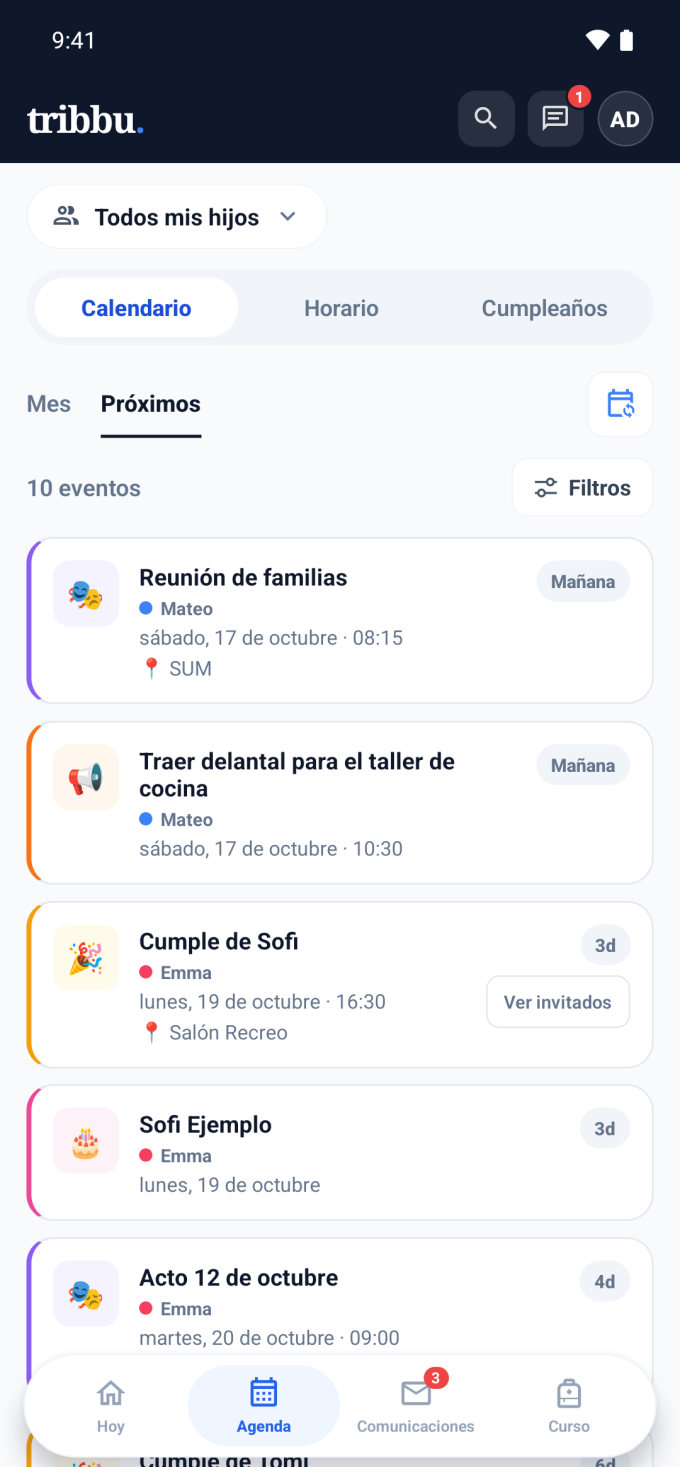
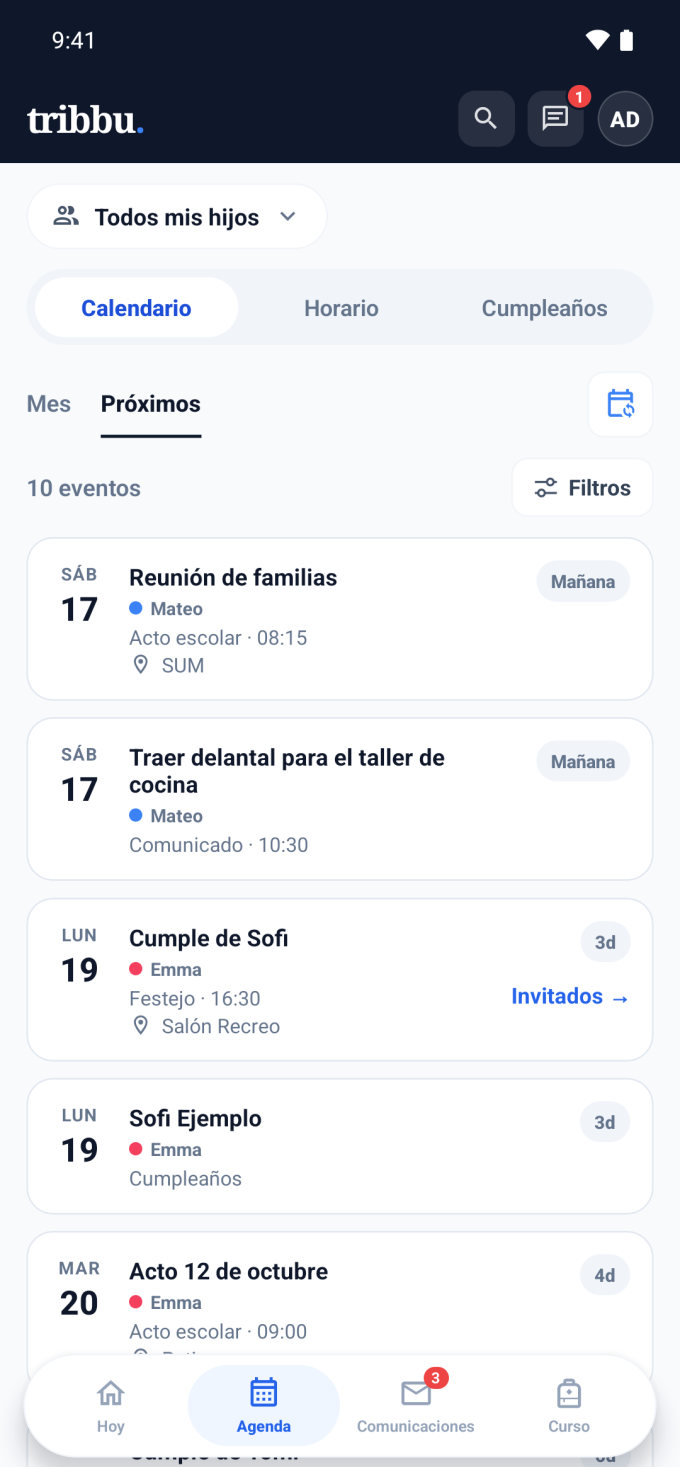
feat(ui): Próximos de Agenda como "Próximos días" y menú que no se sale de la tabla
- Agenda → Próximos (web + app): fecha en columna, sin íconos-emoji ni raya
  de color, tipo y lugar como texto, acciones como enlaces e íconos de línea.
  Mismo criterio en los eventos del día de la vista Mes.
- Menú: los platos sin espacios ("Tomate/Jamon/Huevo/Cebolla") ahora cortan
  después de cada "/" (platoCortable en @shared/menu) en vez de salirse.
- Foto de Agenda de tribbu.ar con el formato nuevo.

diff --git a/src/features/calendario/index.jsx b/src/features/calendario/index.jsx
@@ -1,5 +1,6 @@
 // @ts-nocheck
 import { useState, useEffect, useCallback } from "react";
+import { Icono } from "../../components/Icono";
 import { EmptyState } from "../../components/EmptyState";
 import { supabase } from "../../supabase";
 import { BotonNuevo } from "../../components/BotonNuevo";
@@ -314,7 +315,6 @@ export function Calendario({ cursoId, cursoIds, esVistaTodos=false, tagDeCurso=(
                     const cfg = TIPO_CONFIG[e.tipo]||TIPO_CONFIG.acto;
                     return (
                       <div key={i} style={{display:"flex",gap:10,alignItems:"flex-start",padding:"10px 0",borderBottom:i<evDiaSelec.length-1?"1px solid #F1F5F9":"none"}}>
-                        <div style={{width:36,height:36,borderRadius:10,background:cfg.bg,display:"flex",alignItems:"center",justifyContent:"center",fontSize:18,flexShrink:0}}>{cfg.emoji}</div>
                         <div style={{flex:1,minWidth:0}}>
                           <div style={{display:"flex",alignItems:"center",gap:8,flexWrap:"wrap"}}>
                             <div style={{fontSize:13,fontWeight:700}}>{e.titulo}</div>
@@ -322,20 +322,20 @@ export function Calendario({ cursoId, cursoIds, esVistaTodos=false, tagDeCurso=(
                             {docenteDe(e.creado_por)?<span style={{fontSize:10,fontWeight:700,padding:"2px 7px",borderRadius:8,background:"#F0F9FF",color:"#0369A1"}}>{etiquetaDocente(docenteDe(e.creado_por))}</span>:null}
                           </div>
                           <div style={{fontSize:11,color:"#94A3B8",marginTop:2}}>
-                            {cfg.label}{e.hora?` · ${e.hora}${e.hora_fin?` – ${e.hora_fin}`:""}`:""}{e.lugar?` · 📍${e.lugar}`:""}
+                            {cfg.label}{e.hora?` · ${e.hora}${e.hora_fin?` – ${e.hora_fin}`:""}`:""}{e.lugar?` · ${e.lugar}`:""}
                           </div>
                           {e.descripcion&&<div style={{fontSize:11,color:"#64748B",marginTop:2}}>{e.descripcion}</div>}
                           {e.tipo==="festejo"&&e.imagen_url&&<ImagenAmpliable src={e.imagen_url} bucket="eventos" alt="Invitación" style={{width:64,height:64,objectFit:"cover",borderRadius:8,marginTop:6,display:"block"}}/>}
                           <AdjuntosList adjuntos={e.adjuntos}/>
                         </div>
                         {e.tipo==="festejo"
-                        ? <button onClick={()=>setFestejoDetalle(e)} style={{padding:"4px 10px",borderRadius:6,border:"1px solid #FCD34D",background:"#FFFBEB",cursor:"pointer",fontSize:11,fontWeight:700,color:"#F59E0B"}}>Ver invitados</button>
-                        : (e.confirma_asistencia ? <button onClick={()=>setEventoDetalle(e)} style={{padding:"4px 10px",borderRadius:6,border:"1px solid #E2E8F0",background:"white",cursor:"pointer",fontSize:11,fontWeight:600,color:"#64748B"}}>Ver asistencia</button> : null)
+                        ? <button onClick={()=>setFestejoDetalle(e)} style={{border:"none",background:"none",padding:0,cursor:"pointer",fontFamily:"inherit"}}><span style={{fontSize:12.5,fontWeight:700,color:"#2563EB",whiteSpace:"nowrap"}}>Invitados →</span></button>
+                        : (e.confirma_asistencia ? <button onClick={()=>setEventoDetalle(e)} style={{border:"none",background:"none",padding:0,cursor:"pointer",fontFamily:"inherit"}}><span style={{fontSize:12.5,fontWeight:700,color:"#2563EB",whiteSpace:"nowrap"}}>Asistencia →</span></button> : null)
                       }
                         {userId&&e.creado_por===userId&&e.id&&!e.id?.toString().startsWith("c-")&&!e.id?.toString().startsWith("r-")&&e.tipo!=="festejo"&&(
                           <div style={{display:"flex",gap:4}}>
-                            <button onClick={()=>setModal(e)} style={{padding:"4px 8px",borderRadius:6,border:"1px solid #E2E8F0",background:"white",cursor:"pointer",fontSize:11}}>✏</button>
-                            <button onClick={()=>setConfirm(e)} style={{padding:"4px 8px",borderRadius:6,border:"1px solid #FEE2E2",background:"#FEF2F2",cursor:"pointer",fontSize:11,color:"#EF4444"}}>🗑</button>
+                            <button onClick={()=>setModal(e)} style={{width:30,height:30,borderRadius:8,border:"1px solid #E2E8F0",background:"white",cursor:"pointer",display:"inline-flex",alignItems:"center",justifyContent:"center"}} aria-label="Editar evento"><Icono nombre="lapiz" size={15} color="#64748B"/></button>
+                            <button onClick={()=>setConfirm(e)} style={{width:30,height:30,borderRadius:8,border:"1px solid #E2E8F0",background:"white",cursor:"pointer",display:"inline-flex",alignItems:"center",justifyContent:"center"}} aria-label="Borrar evento"><Icono nombre="papelera" size={15} color="#64748B"/></button>
                           </div>
                         )}
                       </div>
@@ -381,17 +381,18 @@ export function Calendario({ cursoId, cursoIds, esVistaTodos=false, tagDeCurso=(
 
           {listaEventos().length===0&&<EmptyState icono="agenda" titulo="No hay eventos" nota="Probá con otros filtros, o creá uno con + Nuevo."/>}
           {listaEventos().map((e,i)=>{
-            const cfg = TIPO_CONFIG[e.tipo]||TIPO_CONFIG.acto;
             const d   = new Date(e.fecha+"T00:00:00");
             const dFin = e.fecha_fin ? new Date(e.fecha_fin+"T00:00:00") : d;
             const enCurso = hoy>=d && hoy<=dFin;
             const dias = enCurso ? 0 : Math.round((d-hoy)/86400000);
             const diasTxt = enCurso ? "En curso" : dias===0?"Hoy":dias===1?"Mañana":`${dias}d`;
             return (
-              <Card key={e.id||i} style={{padding:"13px 15px",marginBottom:10,borderLeft:`3px solid ${cfg.color}`}}>
+              <Card key={e.id||i} style={{padding:"13px 15px",marginBottom:10}}>
                 <div style={{display:"flex",gap:12,alignItems:"flex-start"}}>
-                  <div style={{width:42,height:42,borderRadius:12,background:cfg.bg,display:"flex",flexDirection:"column",alignItems:"center",justifyContent:"center",flexShrink:0}}>
-                    <div style={{fontSize:18}}>{cfg.emoji}</div>
+                  {/* Fecha en columna, como "Próximos días" del Inicio. */}
+                  <div style={{width:38,flexShrink:0,textAlign:"center"}}>
+                    <span style={{display:"block",fontSize:10.5,fontWeight:700,letterSpacing:0.6,textTransform:"uppercase",color:"#64748B"}}>{d.toLocaleDateString("es-AR",{weekday:"short"}).replace(".","")}</span>
+                    <span style={{display:"block",fontSize:20,fontWeight:800,color:"#0F172A",lineHeight:1.15}}>{d.getDate()}</span>
                   </div>
                   <div style={{flex:1,minWidth:0}}>
                     <div style={{display:"flex",alignItems:"center",gap:8,flexWrap:"wrap"}}>
@@ -400,11 +401,10 @@ export function Calendario({ cursoId, cursoIds, esVistaTodos=false, tagDeCurso=(
                       {docenteDe(e.creado_por)?<span style={{fontSize:10,fontWeight:700,padding:"2px 7px",borderRadius:8,background:"#F0F9FF",color:"#0369A1"}}>{etiquetaDocente(docenteDe(e.creado_por))}</span>:null}
                     </div>
                     <div style={{fontSize:11,color:"#94A3B8",marginTop:2}}>
-                      {fmtRangoFecha(e.fecha, e.fecha_fin)}
-                      {e.hora?` · ${e.hora}${e.hora_fin?` – ${e.hora_fin}`:""}`:""}
+                      {[TIPO_CONFIG[e.tipo]?.label, e.fecha_fin&&e.fecha_fin!==e.fecha?fmtRangoFecha(e.fecha, e.fecha_fin):null, e.hora?`${e.hora}${e.hora_fin?` – ${e.hora_fin}`:""}`:null].filter(Boolean).join(" · ")}
                     </div>
                     {e.lugar&&<div style={{fontSize:11,color:"#94A3B8",display:"flex",alignItems:"center",gap:4}}>
-                      📍 {e.lugar}
+                      {e.lugar}
                       {e.url_ubicacion&&<a href={safeUrl(e.url_ubicacion)||"#"} target="_blank" rel="noreferrer" style={{fontSize:11,fontWeight:700,color:"#3B82F6",marginLeft:4}}>Ver mapa</a>}
                     </div>}
                     {e.descripcion&&<div style={{fontSize:11,color:"#64748B",marginTop:2}}>{e.descripcion}</div>}
@@ -412,13 +412,13 @@ export function Calendario({ cursoId, cursoIds, esVistaTodos=false, tagDeCurso=(
                     <AdjuntosList adjuntos={e.adjuntos}/>
                   </div>
                   <div style={{display:"flex",flexDirection:"column",alignItems:"flex-end",gap:6}}>
-                    <span style={{fontSize:11,fontWeight:700,padding:"3px 8px",borderRadius:12,background:enCurso||dias===0?"#FEE2E2":dias<=7?"#FEF3C7":"#F1F5F9",color:enCurso||dias===0?"#EF4444":dias<=7?"#F59E0B":"#94A3B8"}}>{diasTxt}</span>
-                    {e.tipo==="festejo"&&<button onClick={()=>setFestejoDetalle(e)} style={{padding:"3px 10px",borderRadius:6,border:"1px solid #FCD34D",background:"#FFFBEB",cursor:"pointer",fontSize:11,fontWeight:700,color:"#F59E0B"}}>Ver invitados</button>}
-                    {e.tipo!=="festejo"&&e.confirma_asistencia&&<button onClick={()=>setEventoDetalle(e)} style={{padding:"3px 10px",borderRadius:6,border:"1px solid #E2E8F0",background:"white",cursor:"pointer",fontSize:11,fontWeight:600,color:"#64748B"}}>Ver asistencia</button>}
+                    <span style={{fontSize:11,fontWeight:700,padding:"3px 8px",borderRadius:12,background:enCurso||dias<=2?"#FEE2E2":"#F1F5F9",color:enCurso||dias<=2?"#DC2626":"#64748B"}}>{diasTxt}</span>
+                    {e.tipo==="festejo"&&<button onClick={()=>setFestejoDetalle(e)} style={{border:"none",background:"none",padding:0,cursor:"pointer",fontFamily:"inherit"}}><span style={{fontSize:12.5,fontWeight:700,color:"#2563EB",whiteSpace:"nowrap"}}>Invitados →</span></button>}
+                    {e.tipo!=="festejo"&&e.confirma_asistencia&&<button onClick={()=>setEventoDetalle(e)} style={{border:"none",background:"none",padding:0,cursor:"pointer",fontFamily:"inherit"}}><span style={{fontSize:12.5,fontWeight:700,color:"#2563EB",whiteSpace:"nowrap"}}>Asistencia →</span></button>}
                     {userId&&e.creado_por===userId&&e.id&&!e.id?.toString().startsWith("c-")&&!e.id?.toString().startsWith("r-")&&e.tipo!=="festejo"&&(
                       <div style={{display:"flex",gap:4}}>
-                        <button onClick={()=>setModal(e)} style={{padding:"3px 8px",borderRadius:6,border:"1px solid #E2E8F0",background:"white",cursor:"pointer",fontSize:11}}>✏</button>
-                        <button onClick={()=>setConfirm(e)} style={{padding:"3px 8px",borderRadius:6,border:"1px solid #FEE2E2",background:"#FEF2F2",cursor:"pointer",fontSize:11,color:"#EF4444"}}>🗑</button>
+                        <button onClick={()=>setModal(e)} style={{width:30,height:30,borderRadius:8,border:"1px solid #E2E8F0",background:"white",cursor:"pointer",display:"inline-flex",alignItems:"center",justifyContent:"center"}} aria-label="Editar evento"><Icono nombre="lapiz" size={15} color="#64748B"/></button>
+                        <button onClick={()=>setConfirm(e)} style={{width:30,height:30,borderRadius:8,border:"1px solid #E2E8F0",background:"white",cursor:"pointer",display:"inline-flex",alignItems:"center",justifyContent:"center"}} aria-label="Borrar evento"><Icono nombre="papelera" size={15} color="#64748B"/></button>
                       </div>
                     )}
                   </div>

diff --git a/mobile/features/calendario/index.jsx b/mobile/features/calendario/index.jsx
@@ -390,28 +390,29 @@ export function Calendario({ openFecha = null, onClearOpenFecha, soloHorario = f
             <EmptyState icon="calendar-blank-outline" title="No hay eventos" note="Probá con otros filtros, o creá uno con + Nuevo." />
           ) : null}
           {listaEventos().map((e, i) => {
-            const cfg = TIPO_CONFIG[e.tipo] || TIPO_CONFIG.acto;
             const d = new Date(e.fecha + "T00:00:00");
             const dFin = e.fecha_fin ? new Date(e.fecha_fin + "T00:00:00") : d;
             const enCurso = hoy >= d && hoy <= dFin;
             const dias = enCurso ? 0 : Math.round((d - hoy) / 86400000);
             const diasTxt = enCurso ? "En curso" : dias === 0 ? "Hoy" : dias === 1 ? "Mañana" : `${dias}d`;
             return (
-              <Card key={e.id || i} style={[styles.listCard, { borderLeftColor: cfg.color }]}>
+              <Card key={e.id || i} style={styles.listCard}>
                 <View style={styles.listRow}>
-                  <View style={[styles.iconBox, { backgroundColor: cfg.bg }]}>
-                    <Text style={styles.iconTxt}>{cfg.emoji}</Text>
+                  {/* Fecha en columna, como "Próximos días" del Inicio. */}
+                  <View style={styles.fechaCol}>
+                    <Text style={styles.fechaDow}>{d.toLocaleDateString("es-AR", { weekday: "short" }).replace(".", "")}</Text>
+                    <Text style={styles.fechaNum}>{d.getDate()}</Text>
                   </View>
                   <View style={styles.flex1}>
                     <Text style={styles.eventoTitulo}>{e.titulo}</Text>
                     <TagHijo tag={tagDeCurso(e.curso_id)} />
                     <Text style={styles.eventoMeta}>
-                      {fmtRangoFecha(e.fecha, e.fecha_fin)}
-                      {e.hora ? ` · ${e.hora}${e.hora_fin ? ` – ${e.hora_fin}` : ""}` : ""}
+                      {[TIPO_CONFIG[e.tipo]?.label, e.fecha_fin && e.fecha_fin !== e.fecha ? fmtRangoFecha(e.fecha, e.fecha_fin) : null, e.hora ? `${e.hora}${e.hora_fin ? ` – ${e.hora_fin}` : ""}` : null].filter(Boolean).join(" · ")}
                     </Text>
                     {e.lugar ? (
                       <View style={styles.lugarRow}>
-                        <Text style={styles.eventoMeta}>📍 {e.lugar}</Text>
+                        <MaterialCommunityIcons name="map-marker-outline" size={14} color={t.textMuted} />
+                        <Text style={[styles.eventoMeta, { marginTop: 0 }]}>{e.lugar}</Text>
                         {e.url_ubicacion ? (
                           <Pressable onPress={() => safeUrl(e.url_ubicacion) && Linking.openURL(safeUrl(e.url_ubicacion))}>
                             <Text style={styles.mapLink}>Ver mapa</Text>
@@ -430,21 +431,21 @@ export function Calendario({ openFecha = null, onClearOpenFecha, soloHorario = f
                       <Text style={styles.diasTagTxt}>{diasTxt}</Text>
                     </View>
                     {e.tipo === "festejo" ? (
-                      <Pressable onPress={() => setFestejoDetalle(e)} style={styles.asistBtn}>
-                        <Text style={styles.asistTxt}>Ver invitados</Text>
+                      <Pressable onPress={() => setFestejoDetalle(e)} style={styles.linkBtn} hitSlop={6}>
+                        <Text style={styles.linkTxt}>Invitados →</Text>
                       </Pressable>
                     ) : e.confirma_asistencia ? (
-                      <Pressable onPress={() => setEventoDetalle(e)} style={styles.asistBtn}>
-                        <Text style={styles.asistTxt}>Asistencia</Text>
+                      <Pressable onPress={() => setEventoDetalle(e)} style={styles.linkBtn} hitSlop={6}>
+                        <Text style={styles.linkTxt}>Asistencia →</Text>
                       </Pressable>
                     ) : null}
                     {userId && e.creado_por === userId && e.id && !String(e.id).startsWith("c-") && !String(e.id).startsWith("r-") && e.tipo !== "festejo" ? (
                       <View style={styles.editRow}>
-                        <Pressable onPress={() => setModal(e)} style={styles.miniBtn}>
-                          <Text style={styles.miniTxt}>✏</Text>
+                        <Pressable onPress={() => setModal(e)} style={styles.miniBtn} accessibilityLabel="Editar evento">
+                          <MaterialCommunityIcons name="pencil-outline" size={16} color={SLATE[500]} />
                         </Pressable>
-                        <Pressable onPress={() => setConfirm(e)} style={styles.miniBtn}>
-                          <Text style={[styles.miniTxt, { color: "#EF4444" }]}>🗑</Text>
+                        <Pressable onPress={() => setConfirm(e)} style={styles.miniBtn} accessibilityLabel="Borrar evento">
+                          <MaterialCommunityIcons name="trash-can-outline" size={16} color={SLATE[500]} />
                         </Pressable>
                       </View>
                     ) : null}
@@ -553,16 +554,13 @@ function EventoRow({ e, tag = null, isAdmin, userId, onAsistencia, onFestejo, on
   const editable = userId && e.creado_por === userId && e.id && !String(e.id).startsWith("c-") && !String(e.id).startsWith("r-") && e.tipo !== "festejo";
   return (
     <View style={styles.diaRow}>
-      <View style={[styles.iconBox, { backgroundColor: cfg.bg }]}>
-        <Text style={styles.iconTxt}>{cfg.emoji}</Text>
-      </View>
       <View style={styles.flex1}>
         <Text style={styles.eventoTitulo}>{e.titulo}</Text>
         <TagHijo tag={tag} />
         <Text style={styles.eventoMeta}>
           {cfg.label}
           {e.hora ? ` · ${e.hora}${e.hora_fin ? ` – ${e.hora_fin}` : ""}` : ""}
-          {e.lugar ? ` · 📍${e.lugar}` : ""}
+          {e.lugar ? ` · ${e.lugar}` : ""}
         </Text>
         {e.descripcion ? <Text style={styles.eventoDesc}>{e.descripcion}</Text> : null}
         {e.tipo === "festejo" && e.imagen_url ? (
@@ -571,21 +569,21 @@ function EventoRow({ e, tag = null, isAdmin, userId, onAsistencia, onFestejo, on
         <AdjuntosList adjuntos={e.adjuntos} />
       </View>
       {e.tipo === "festejo" ? (
-        <Pressable onPress={onFestejo} style={styles.asistBtn}>
-          <Text style={styles.asistTxt}>Ver invitados</Text>
+        <Pressable onPress={onFestejo} style={styles.linkBtn} hitSlop={6}>
+          <Text style={styles.linkTxt}>Invitados →</Text>
         </Pressable>
       ) : e.confirma_asistencia ? (
-        <Pressable onPress={onAsistencia} style={styles.asistBtn}>
-          <Text style={styles.asistTxt}>Asistencia</Text>
+        <Pressable onPress={onAsistencia} style={styles.linkBtn} hitSlop={6}>
+          <Text style={styles.linkTxt}>Asistencia →</Text>
         </Pressable>
       ) : null}
       {editable ? (
         <View style={styles.editRow}>
-          <Pressable onPress={onEditar} style={styles.miniBtn}>
-            <Text style={styles.miniTxt}>✏</Text>
+          <Pressable onPress={onEditar} style={styles.miniBtn} accessibilityLabel="Editar evento">
+            <MaterialCommunityIcons name="pencil-outline" size={16} color={SLATE[500]} />
           </Pressable>
-          <Pressable onPress={onEliminar} style={styles.miniBtn}>
-            <Text style={[styles.miniTxt, { color: "#EF4444" }]}>🗑</Text>
+          <Pressable onPress={onEliminar} style={styles.miniBtn} accessibilityLabel="Borrar evento">
+            <MaterialCommunityIcons name="trash-can-outline" size={16} color={SLATE[500]} />
           </Pressable>
         </View>
       ) : null}
@@ -1041,7 +1039,12 @@ const styles = StyleSheet.create({
   editRow: { flexDirection: "row", gap: 4, marginTop: 4 },
   miniBtn: { padding: 6, borderRadius: RADIUS.sm, borderWidth: 1, borderColor: t.borderStrong, backgroundColor: t.surface },
   miniTxt: { fontSize: 12, color: t.text },
-  listCard: { padding: 13, marginBottom: 10, borderLeftWidth: 3 },
+  listCard: { padding: 13, marginBottom: 10 },
+  fechaCol: { width: 36, alignItems: "center", paddingTop: 1 },
+  fechaDow: { fontSize: 10.5, fontWeight: "700", letterSpacing: 0.6, textTransform: "uppercase", color: t.textMuted },
+  fechaNum: { fontSize: 20, fontWeight: "800", color: t.textStrong, fontVariant: ["tabular-nums"] },
+  linkBtn: { minHeight: 28, justifyContent: "center" },
+  linkTxt: { fontSize: 13, fontWeight: "700", color: BLUE[600] },
   listRow: { flexDirection: "row", gap: SPACE.md, alignItems: "flex-start" },
   listRight: { alignItems: "flex-end", gap: 6 },
   diasTag: { backgroundColor: SLATE[100], borderRadius: RADIUS.full, paddingVertical: 5, paddingHorizontal: 9 },

diff --git a/src/components/TablaMenu.jsx b/src/components/TablaMenu.jsx
@@ -1,6 +1,6 @@
 // Menú de un día como tabla (Entrada / Plato principal / Postre), el mismo en
 // el Inicio y en Comedor. Categorías en @shared/menu.
-import { filasMenu } from "../lib/menu";
+import { filasMenu, platoCortable } from "../lib/menu";
 
 export function TablaMenu({ menu, style }) {
   const filas = filasMenu(menu);
@@ -12,7 +12,7 @@ export function TablaMenu({ menu, style }) {
           <span style={{ width: 108, flexShrink: 0, fontSize: 12.5, lineHeight: "20px", color: "#64748B", whiteSpace: "nowrap" }}>{f.label}</span>
           <span style={{ flex: 1, minWidth: 0 }}>
             {f.platos.map((p, j) => (
-              <span key={j} style={{ display: "block", fontSize: 14, lineHeight: "20px", fontWeight: 600, color: "#0F172A", marginTop: j ? 4 : 0 }}>{p}</span>
+              <span key={j} style={{ display: "block", fontSize: 14, lineHeight: "20px", fontWeight: 600, color: "#0F172A", marginTop: j ? 4 : 0, overflowWrap: "anywhere" }}>{platoCortable(p)}</span>
             ))}
           </span>
         </div>

diff --git a/mobile/components/TablaMenu.jsx b/mobile/components/TablaMenu.jsx
@@ -1,7 +1,7 @@
 // Menú de un día como tabla (Entrada / Plato principal / Postre), el mismo en
 // el Inicio y en Comedor. Categorías en @shared/menu.
 import { View, Text, StyleSheet } from "react-native";
-import { filasMenu } from "@shared/menu";
+import { filasMenu, platoCortable } from "@shared/menu";
 import { THEMES, RADIUS } from "@shared/tokens";
 
 const t = THEMES.light;
@@ -16,7 +16,7 @@ export function TablaMenu({ menu, style }) {
           <Text style={styles.label}>{f.label}</Text>
           <View style={styles.platos}>
             {f.platos.map((p, j) => (
-              <Text key={j} style={[styles.plato, j > 0 && styles.platoSig]}>{p}</Text>
+              <Text key={j} style={[styles.plato, j > 0 && styles.platoSig]}>{platoCortable(p)}</Text>
             ))}
           </View>
         </View>

diff --git a/src/components/Icono.jsx b/src/components/Icono.jsx
@@ -26,6 +26,7 @@ const P = {
   salvavidas: ["M12 21a9 9 0 1 0 0-18 9 9 0 0 0 0 18z", "M12 16a4 4 0 1 0 0-8 4 4 0 0 0 0 8z", "M5.6 5.6l3.6 3.6M14.8 14.8l3.6 3.6M18.4 5.6l-3.6 3.6M9.2 14.8l-3.6 3.6"],
   llave: ["M8 19a4 4 0 1 0 0-8 4 4 0 0 0 0 8z", "M11 12l9-9M17 6l2 2M15 8l2 2"],
   salir: ["M10 4H6a2 2 0 0 0-2 2v12a2 2 0 0 0 2 2h4", "M15 16l4-4-4-4", "M19 12H9"],
+  lapiz: ["M4 20h4L19 9l-4-4L4 16z", "M13.5 6.5l4 4"],
   papelera: ["M4 7h16", "M9 7V4h6v3", "M6 7l1 13h10l1-13", "M10 11v6M14 11v6"],
   atras: ["M15 6l-6 6 6 6"],
   cerrar: ["M6 6l12 12M18 6 6 18"],

diff --git a/src/lib/menu.js b/src/lib/menu.js
@@ -20,3 +20,7 @@ export const filasMenu = (menu) =>
   !menu
     ? []
     : CATEGORIAS_MENU.map((c) => ({ label: c.label, platos: c.campos.map((k) => menu[k]).filter(Boolean) })).filter((f) => f.platos.length);
+
+// "Tomate/Jamon/Huevo/Cebolla" no tiene espacios y se salía de la tabla:
+// un espacio de ancho cero después de cada "/" le permite cortar ahí.
+export const platoCortable = (t) => String(t ?? "").replace(/\//g, "/");
